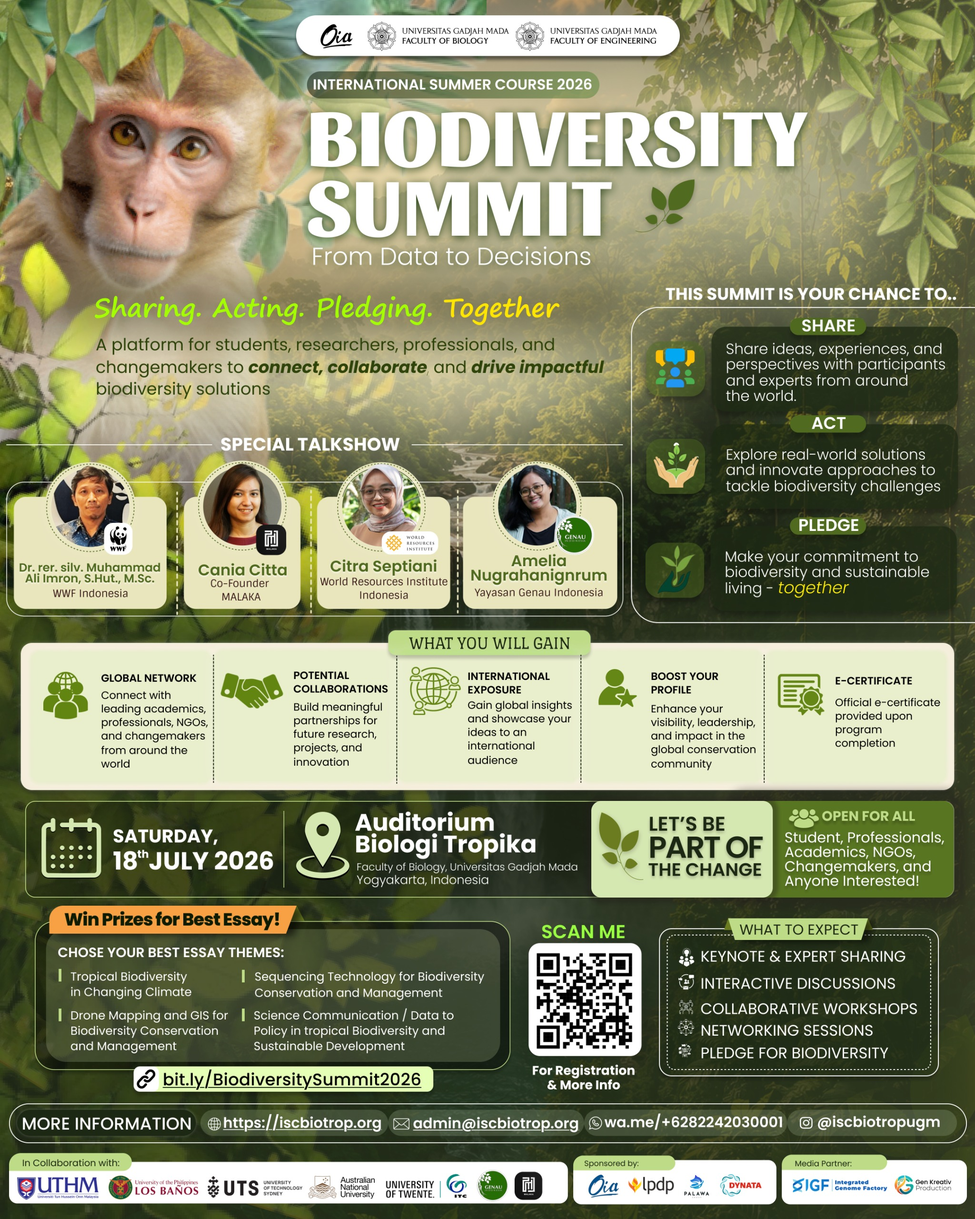
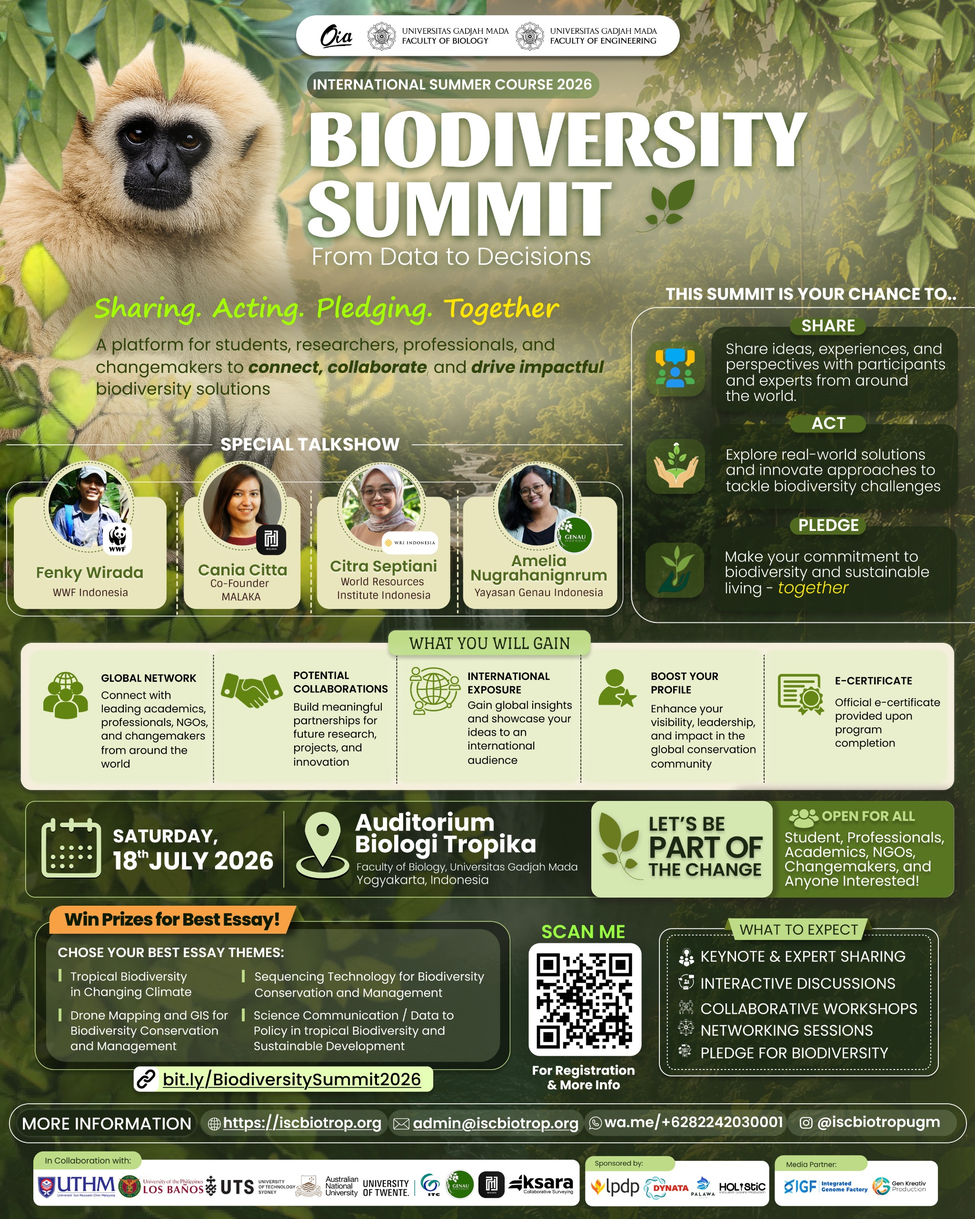
deploy: 6b0d1dac70ffa354ef6bf94ec417556e2a599e79

diff --git a/speakers/index.html b/speakers/index.html
@@ -670,12 +670,12 @@ window.Quarto = {
             <li>
               <div class="speaker-card">
                 <div class="speaker-card__img">
-                  <a href="https://wwf.id/id/about-us/our-leadership" target="_blank">
-                    <img src="img/ali_imron.jpg" alt="Mohammad Ali Imron picture">
+                  <a href="https://www.linkedin.com/in/fenky-wirada-6417232ab/" target="_blank">
+                    <img src="img/fenky.jpeg" alt="Fenky Wirada picture">
                   </a>
                 </div>
                 <div class="speaker-card__body">
-                  <p><strong>Mohammad Ali Imron</strong></p>
+                  <p><strong>Fenky Wirada</strong></p>
                   <p>WWF-Indonesia</p>
                   <ul class="speaker-socials">
                     
@@ -685,7 +685,7 @@ window.Quarto = {
                     
                     
                       
-                        <li class="socialIcons"><a href="https://wwf.id/id/about-us/our-leadership"><i class="bi bi-globe"></i></a></li>
+                        <li class="socialIcons"><a href="https://wwf.id/en"><i class="bi bi-globe"></i></a></li>
                       
                       
                       

diff --git a/program/schedule/index.html b/program/schedule/index.html
@@ -970,7 +970,7 @@ ul.task-list li input[type="checkbox"] {
 <tr class="odd">
 <td><strong>08.00 - 08.45</strong></td>
 <td>From Data to Decisions</td>
-<td>Dr.&nbsp;Muhammad Ali Imron - WWF Indonesia</td>
+<td>Fenky Wirada - WWF Indonesia</td>
 <td></td>
 <td>Lectures</td>
 </tr>
